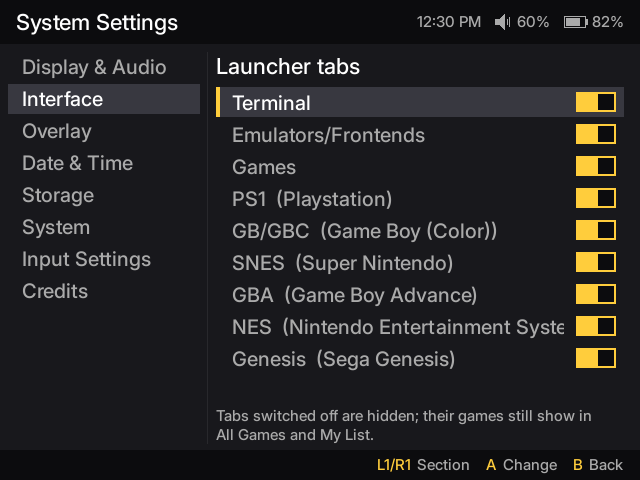
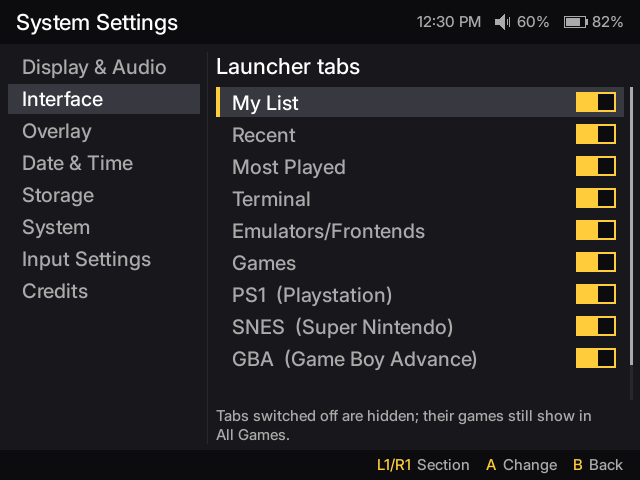
System Settings: My List, Recent and Most Played can be hidden too
Launcher tabs only listed the system and apps tabs: the tabs Puppy makes
itself (All Games, My List, External Card, Recent, Most Played) were all
left out, so a player who never uses My List or Most Played had them in
the strip for good. hideable() now lets My List, Recent and Most Played
through, in the page, in the toggle and when the settings are loaded.
All Games stays: it is where the launcher goes when the current tab is
hidden. The tab strip, the Streaming rows and L1/R1 already skip hidden
tabs, so both styles follow.

Recent and Most Played only show on the page once they exist (after the
first game), as the system tabs only show once they have games.

The page's hint no longer says the games stay in My List, which can now
be hidden itself. The screenshot shows the new rows.

diff --git a/rootfs/package/puppy/src/settings_pages.cpp b/rootfs/package/puppy/src/settings_pages.cpp
@@ -7,6 +7,7 @@
 #include "accents.h"
 #include "config.h"
 #include "fonts.h"
+#include "library.h"
 #include "overlays.h"
 #include "settings.h"
 #include "styles.h"
@@ -112,7 +113,7 @@ std::string SettingsScreen::title(Page p) const {
 // Under the page, when the selected row has no hint of its own
 std::string SettingsScreen::pageHint(Page p) const {
     switch (p) {
-        case Page::Tabs: return tr("Tabs switched off are hidden; their games still show in All Games and My List.");
+        case Page::Tabs: return tr("Tabs switched off are hidden; their games still show in All Games.");
         case Page::System: return tr(powerProfiles()[profile].hint);
         case Page::ScraperRun: return tr("Puppy must stay open: starting a game stops the scraper. It goes on from there next time.");
         case Page::Resize:
@@ -179,12 +180,12 @@ std::vector<Row> SettingsScreen::displayPage() {
 std::vector<Row> SettingsScreen::tabsPage() {
     std::vector<Row> rows;
     for (const Category& c : launcher.categories) {
-        if (c.mixed) continue;
+        if (!hideable(c)) continue;
         std::string label = tr(c.label);
         if (c.label != c.name) label += "  (" + tr(c.name) + ")";
         Row r = Row::toggle(label, !c.hidden, [this, name = c.name](int on) {
             for (auto& cat : launcher.categories)
-                if (!cat.mixed && cat.name == name) cat.hidden = !on;
+                if (hideable(cat) && cat.name == name) cat.hidden = !on;
             std::vector<std::string>& hidden = prefs.hiddenTabs;
             hidden.erase(std::remove(hidden.begin(), hidden.end(), name), hidden.end());
             if (!on) hidden.push_back(name);

diff --git a/rootfs/package/puppy/src/library.cpp b/rootfs/package/puppy/src/library.cpp
@@ -637,7 +637,12 @@ void loadSettings(Model& m) {
     m.trailerSound = p.trailerSound;
     for (const std::string& name : p.hiddenTabs)
         for (auto& c : m.categories)
-            if (!c.mixed && c.name == name) c.hidden = true;
+            if (hideable(c) && c.name == name) c.hidden = true;
+}
+
+// The tabs System Settings can hide: every system and apps tab, My List, Recent and Most Played
+bool hideable(const Category& c) {
+    return !c.mixed || c.name == kMyListName || c.name == kRecentName || c.name == kMostPlayedName;
 }
 
 // Everything the launcher shows: the catalog, the extra tabs, favourites, the options and the

diff --git a/rootfs/package/puppy/src/catalog.h b/rootfs/package/puppy/src/catalog.h
@@ -32,7 +32,7 @@ struct Category {
     int sel = 0;                // position in 'visible'
     mutable int scroll = 0;     // first list row / grid row on screen, kept in view by the renderer
     mutable int tagColumn = -1; // list view: width of the system tag column (-1: to be measured)
-    bool hidden = false;        // left out of the tab strip (System Settings); still in All Games / My List
+    bool hidden = false;        // left out of the tab strip (System Settings); still in All Games
 };
 
 std::vector<Category> loadCatalog();

diff --git a/rootfs/package/puppy/src/library.h b/rootfs/package/puppy/src/library.h
@@ -27,3 +27,4 @@ void extractSystemMenu(Model& m);
 void applySettingsCommand(Model& m);
 std::vector<PowerItem> powerItems();
 void loadSettings(Model& m);
+bool hideable(const Category& c);

diff --git a/README.md b/README.md
@@ -236,7 +236,7 @@ System Settings
 └── Credits ─ the people who made goodluckOS
 ```
 
-- **Launcher tabs**: hidden tabs' games still appear in All Games and My List.
+- **Launcher tabs**: My List, Recent, Most Played and each system and apps tab can be hidden; hidden tabs' games still appear in All Games.
 - **Font**: Default (Inter, or Atkinson Hyperlegible in the Showcase style), VT323, Pixelify Sans or ProggyClean.
 - **Accent color**: the colour of the selection, the buttons in the hints and the bars, and of the volume and brightness feedback in games (from the next game on): yellow (the default), orange, red, pink, purple, blue, cyan, green or white.
 - **Style**: Retro, Puppy's own look, or Showcase, after the Vitrine launcher by Jeferson Lopes: a dark blue screen, bold titles, the selection as a rounded pill in the accent color, the face buttons in the hints as their letter in its colour on a grey button, and that launcher's layouts. Its list is Shelf: a narrower list, the picture with rounded corners over the game's name, system, data and description, and an A-Z rail lighting the selected game's letter. Its grid is Streaming: the selected game's picture fills the top right under a see-through top bar, its base down beside the row's name and its top cut when it doesn't fit, its left and bottom edges fading into the screen next to the game's name and data, with a row of covers per tab under it. Left/right move along the row and L1/R1 skip 10 games along it; up/down go to the previous/next tab's row and stop at the first and the last. The next tab's row shows under the current one. When the selected game has a video in its gamelist.xml (Skraper's videos), or a `VIDEO=` line with a clip in its `apps.puppy` entry (a port's trailer), or is itself a video of the Videos tab (30 s of it), it plays once in place of the picture after 2 s without a button, in both layouts, muted unless Interface's Trailer sound is on; any button stops it.
